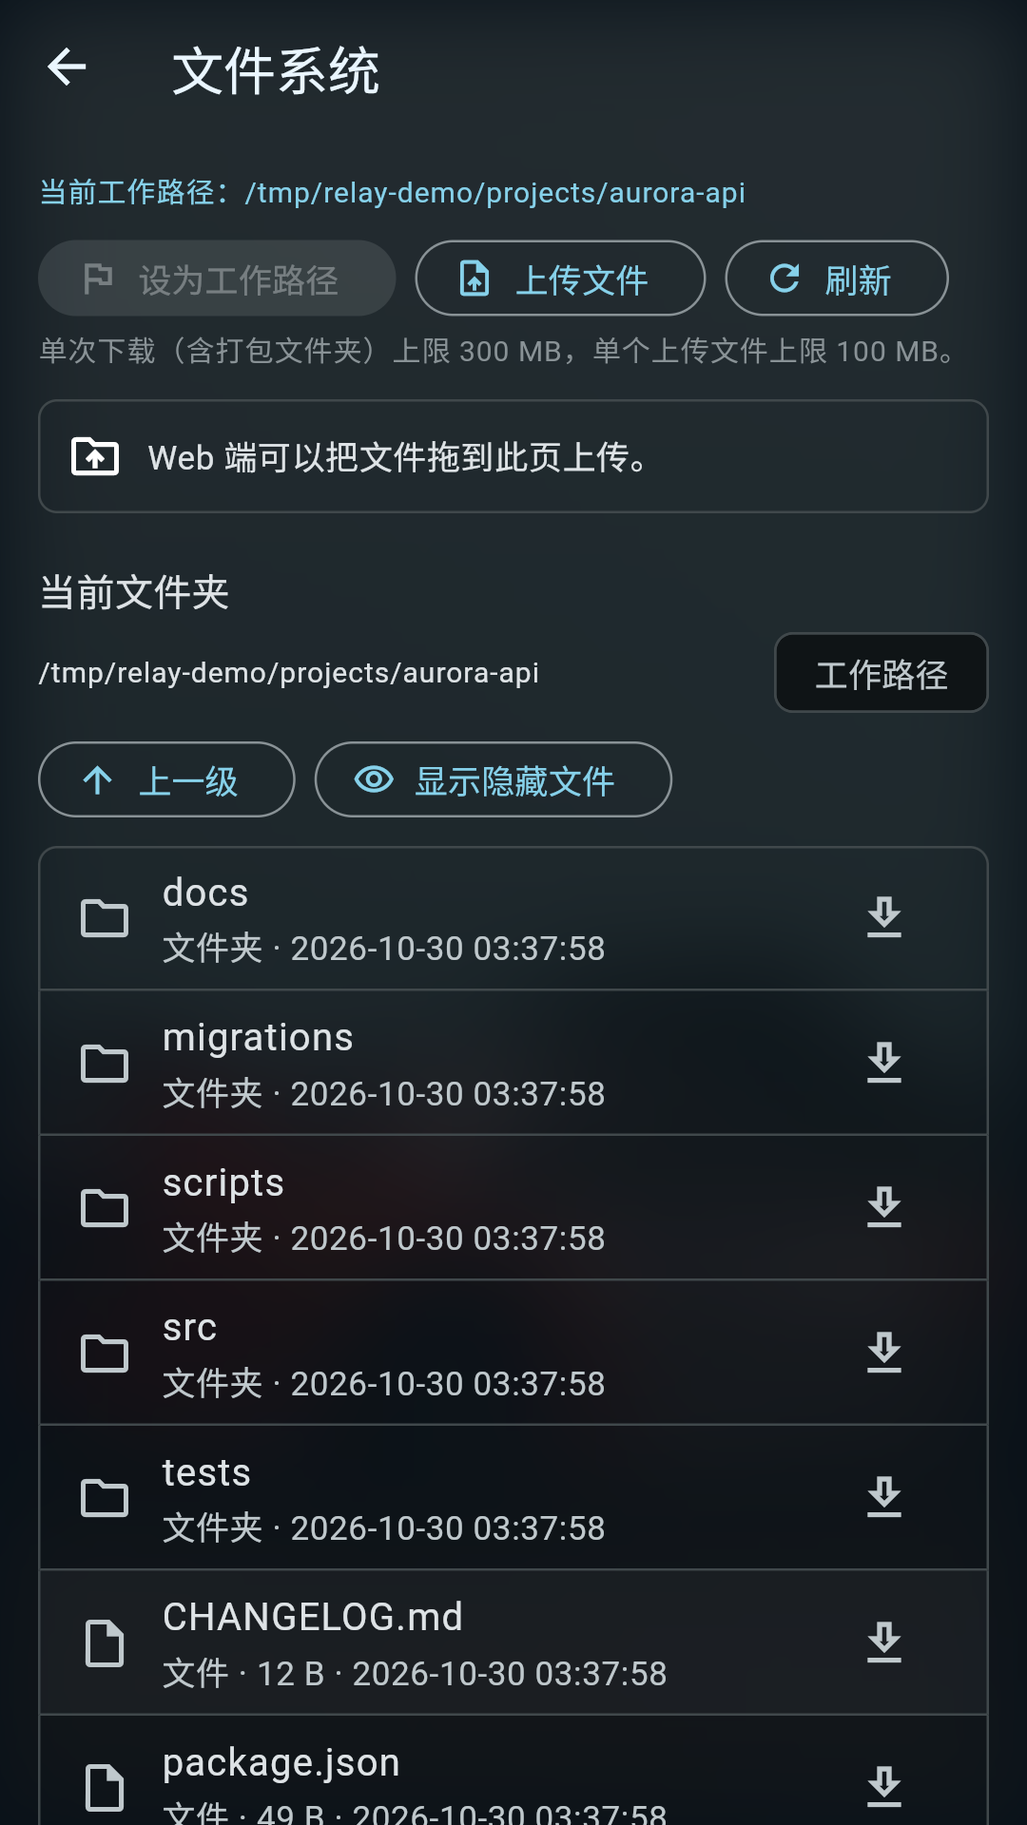
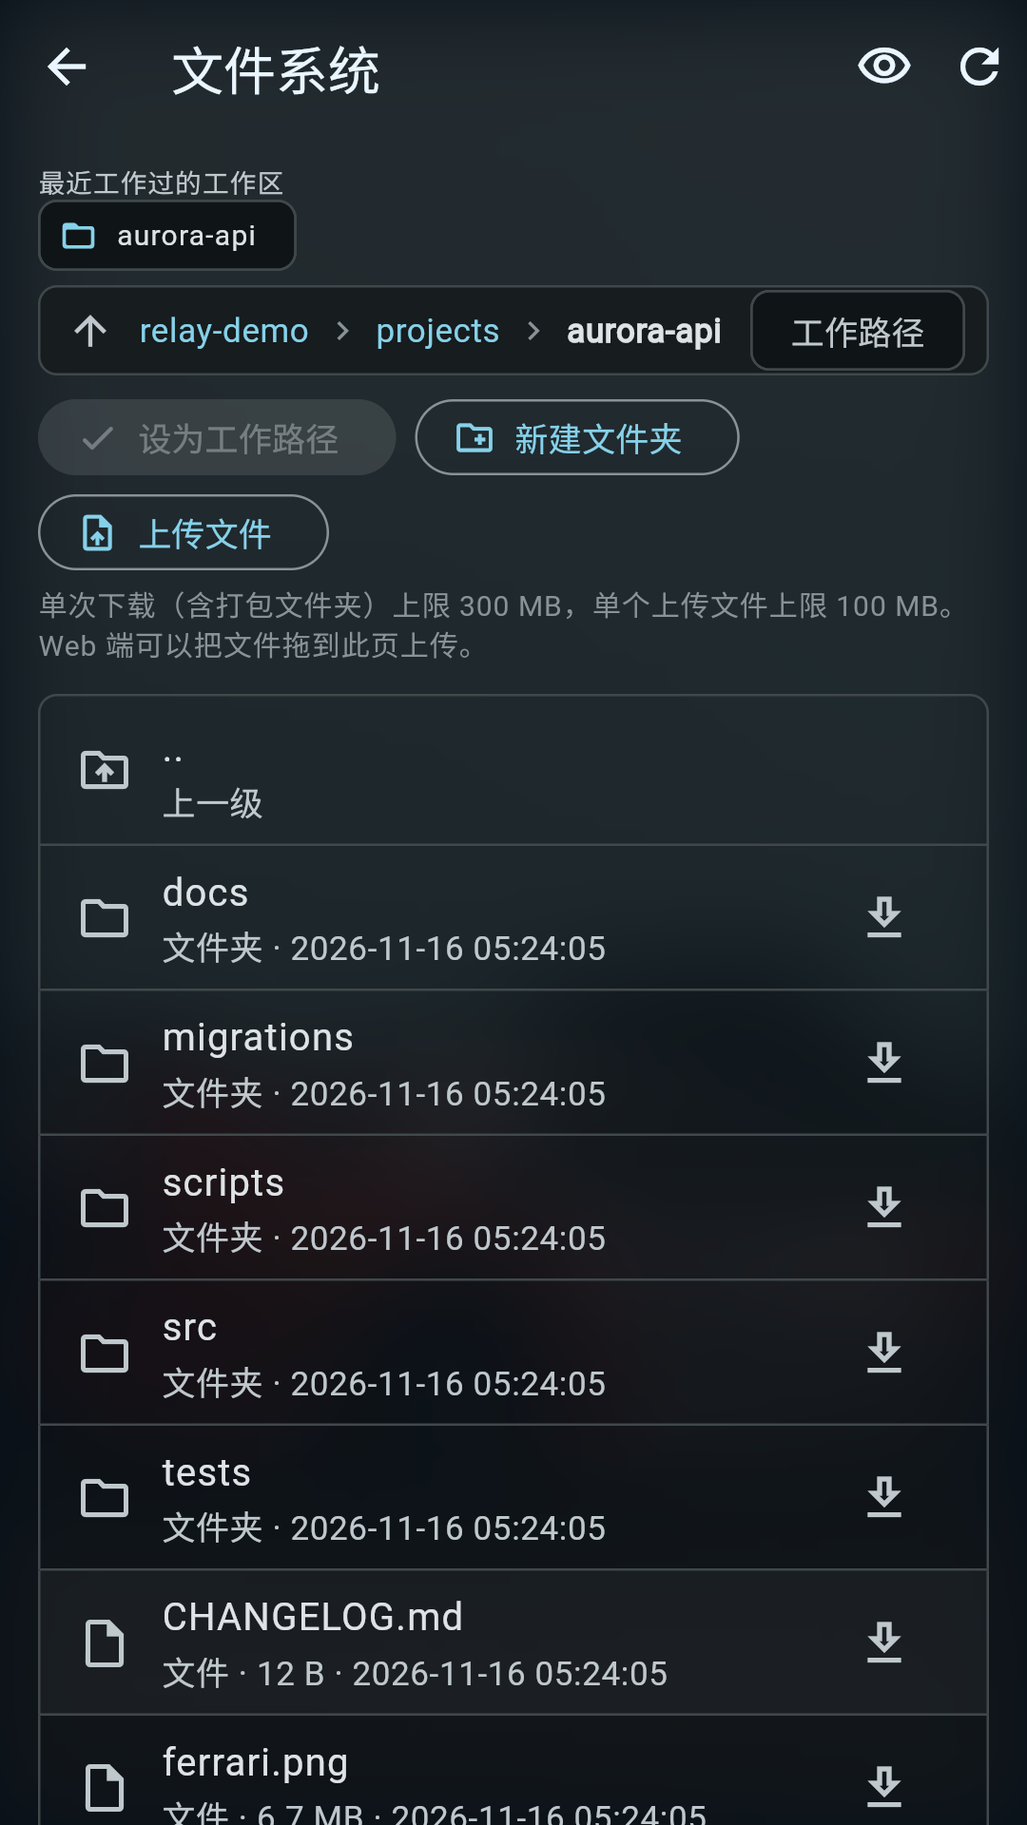
docs: refresh 0.1.12 screenshots with browser and image previews

diff --git a/scripts/dev/readme_screenshots.js b/scripts/dev/readme_screenshots.js
@@ -9,6 +9,8 @@
 const fs = require('node:fs');
 const os = require('node:os');
 const path = require('node:path');
+const http = require('node:http');
+const assert = require('node:assert/strict');
 const { execFileSync, spawn } = require('node:child_process');
 
 const REPO = path.resolve(__dirname, '../..');
@@ -21,6 +23,7 @@ const SERVER = path.join(ROOT, 'server');
 const WORKDIR = path.join(ROOT, 'projects', 'aurora-api');
 const PORT = Number(process.env.DEMO_PORT || 8790);
 const BASE_URL = `http://127.0.0.1:${PORT}`;
+const PREVIEW_PORT = PORT + 1;
 const TOKEN = 'relay-demo-screenshot-token-0000000000000000';
 const DARK_OPACITY = Number(process.env.WALLPAPER_DARK_OPACITY || 0.6);
 const PLAYWRIGHT_VERSION = '1.63.0';
@@ -29,10 +32,11 @@ const SEP = '\u0000';
 const day = new Date().toISOString().slice(0, 10);
 const at = (hm) => `${day}T${hm}:00.000Z`;
 
-// Viewport, device pixel ratio and the taps that reach each screen. Taps are
-// CSS-pixel coordinates in the layout of this release; check them when the
-// drawer or home page changes.
+// Viewport, device pixel ratio and the actions that reach each screen.
 const DRAWER = [28, 27];
+const OPEN_FILES = [{ tap: DRAWER }, { button: ['File system', '文件系统'] }];
+const OPEN_BROWSER = [{ tap: DRAWER }, { button: ['Browser', '浏览器'] }];
+const OPEN_IMAGE = [...OPEN_FILES, { button: ['ferrari.png', 'ferrari.png'] }];
 const SHOTS = [
   { name: 'relay-overview-web', size: [1440, 960, 1], steps: [] },
   { name: 'relay-chat-web', size: [1440, 960, 1], steps: [{ tap: [104, 356] }] },
@@ -40,9 +44,11 @@ const SHOTS = [
   {
     name: 'relay-swarm-mobile',
     size: [400, 820, 2],
-    steps: [{ tap: DRAWER }, { scroll: [150, 500, 300] }, { tap: [136, 640] }],
+    steps: [{ tap: DRAWER }, { scroll: [150, 500, 300] }, { button: ['Release readiness', '发布检查'] }],
   },
-  { name: 'relay-files-mobile', size: [400, 820, 2], steps: [{ tap: DRAWER }, { tap: [95, 739] }] },
+  { name: 'relay-files-mobile', size: [400, 820, 2], steps: OPEN_FILES },
+  { name: 'relay-browser-mobile', size: [400, 820, 2], steps: OPEN_BROWSER, browser: true },
+  { name: 'relay-image-preview-mobile', size: [400, 820, 2], steps: OPEN_IMAGE, image: true },
 ];
 
 // Same layout as the first phone set, rendered at 2.5× for 1080×1920 PNGs.
@@ -52,12 +58,14 @@ const MOBILE_SHOTS = [
   { name: 'relay-chat-empty-mobile', empty: true, steps: [{ tap: DRAWER }, { tap: [104, 356] }] },
   {
     name: 'relay-swarm-mobile',
-    steps: [{ tap: DRAWER }, { scroll: [150, 500, 300] }, { tap: [136, 550] }],
+    steps: [{ tap: DRAWER }, { scroll: [150, 500, 300] }, { button: ['Release readiness', '发布检查'] }],
   },
-  { name: 'relay-files-mobile', steps: [{ tap: DRAWER }, { tap: [95, 688] }] },
+  { name: 'relay-files-mobile', steps: OPEN_FILES },
+  { name: 'relay-browser-mobile', steps: OPEN_BROWSER, browser: true },
+  { name: 'relay-image-preview-mobile', steps: OPEN_IMAGE, image: true },
   { name: 'relay-machine-mobile', steps: [{ tap: [180, 132] }] },
-  { name: 'relay-quota-mobile', steps: [{ tap: DRAWER }, { tap: [100, 213] }] },
-  { name: 'relay-settings-mobile', steps: [{ tap: DRAWER }, { tap: [95, 739] }] },
+  { name: 'relay-quota-mobile', steps: [{ tap: DRAWER }, { tap: [100, 213] }], quota: true },
+  { name: 'relay-settings-mobile', steps: [{ tap: DRAWER }, { button: ['Settings', '设置'] }] },
   { name: 'relay-credentials-mobile', steps: [{ tap: DRAWER }, { tap: [100, 165] }] },
 ].map((shot) => ({ ...shot, size: [432, 768, 2.5] }));
 
@@ -79,7 +87,7 @@ function writeJson(name, value) {
   fs.writeFileSync(path.join(SERVER, name), JSON.stringify(value, null, 2));
 }
 
-function seed(lang) {
+function seed(lang, image) {
   const text = (en, zh) => lang === 'zh' ? zh : en;
   fs.rmSync(ROOT, { recursive: true, force: true });
 
@@ -100,6 +108,7 @@ function seed(lang) {
     fs.mkdirSync(path.dirname(file), { recursive: true });
     fs.writeFileSync(file, body);
   }
+  fs.copyFileSync(image, path.join(WORKDIR, 'ferrari.png'));
 
   // Tracked server code only, so no local deployment state is copied.
   const tracked = execFileSync('git', ['ls-files', 'server'], { cwd: REPO }).toString().trim().split('\n');
@@ -231,7 +240,54 @@ function seed(lang) {
   });
 }
 
-async function startServer() {
+function startPreview(lang) {
+  const text = (en, zh) => lang === 'zh' ? zh : en;
+  const html = `<!doctype html>
+<html lang="${lang}"><meta charset="utf-8"><meta name="viewport" content="width=device-width, initial-scale=1">
+<title>Aurora · ${text('Billing', '账单')}</title>
+<style>
+*{box-sizing:border-box}body{margin:0;background:#f5f6f8;color:#172b3a;font:15px system-ui,sans-serif}
+header{padding:22px 24px;background:#172b3a;color:white;display:flex;align-items:center;justify-content:space-between}
+header strong{font-size:22px;letter-spacing:-.7px}header span{color:#b8c9d6;font-size:12px}
+main{max-width:960px;margin:auto;padding:26px 22px}small{color:#607482;font-size:11px;letter-spacing:1.4px}
+h1{font-size:29px;letter-spacing:-1px;margin:8px 0}p{color:#607482;line-height:1.6;margin:0 0 22px}
+.stats{display:grid;grid-template-columns:1fr 1fr;gap:12px}.card,section{background:white;border:1px solid #e0e6eb;border-radius:12px;padding:18px}
+.card span{font-size:12px;color:#607482}.card strong{display:block;font-size:27px;margin:9px 0 4px}.card em{font-size:11px;font-style:normal;color:#13765e}
+section{margin-top:18px}h2{font-size:16px;margin:0 0 20px}.chart{height:85px;display:flex;align-items:end;gap:12px}
+.chart i{flex:1;background:#467d96;border-radius:4px 4px 0 0}.chart i:last-child{background:#172b3a}
+.axis{display:flex;justify-content:space-between;font-size:10px;color:#607482;margin-top:8px}
+.invoice{display:flex;justify-content:space-between;align-items:center;padding:15px 0;border-top:1px solid #edf0f3}
+.invoice b{font-size:13px}.invoice span{display:block;font-size:11px;color:#607482;margin-top:4px}
+.paid{background:#e5f4ec;color:#13765e;padding:5px 9px;border-radius:5px;font-size:11px}
+footer{margin-top:20px;color:#607482;font-size:11px}
+</style>
+<header><strong>aurora<span style="color:#76b4cf"> / </span></strong><span>${text('Development preview', '开发预览')}</span></header>
+<main><small>AURORA API · 2.4.1</small><h1>${text('Billing overview', '账单概览')}</h1>
+<p>${text('A clear view of your invoices and revenue.', '发票与收入，一目了然。')}</p>
+<div class="stats"><div class="card"><span>${text('Revenue this month', '本月收入')}</span><strong>¥48,250</strong><em>↑ 18.6% ${text('vs last month', '较上月')}</em></div>
+<div class="card"><span>${text('Paid invoices', '已付发票')}</span><strong>128</strong><em>${text('All payments settled', '全部款项已结清')}</em></div></div>
+<section><h2>${text('Revenue · Last 7 days', '收入 · 最近 7 天')}</h2><div class="chart">
+${[36, 58, 44, 72, 62, 84, 98].map((height) => `<i style="height:${height}%"></i>`).join('')}</div>
+<div class="axis"><span>${text('MON', '周一')}</span><span>${text('SUN', '周日')}</span></div></section>
+<section><h2>${text('Recent invoices', '最近发票')}</h2>
+${[['1048', 'Northstar Studio', '¥2,400'], ['1047', 'Orbit Labs', '¥1,850'], ['1046', 'Acme Design', '¥3,200']].map(([id, name, amount]) =>
+    `<div class="invoice"><div><b>${name}</b><span>INV-${id} · ${amount}</span></div><label class="paid">${text('Paid', '已付款')}</label></div>`).join('')}
+</section><footer>localhost:${PREVIEW_PORT} · ${text('Served on your backend machine', '运行在你的后端机器上')}</footer></main></html>`;
+  const server = http.createServer((_req, res) => {
+    res.writeHead(200, { 'Content-Type': 'text/html; charset=utf-8' });
+    res.end(html);
+  });
+  return new Promise((resolve, reject) => {
+    server.once('error', reject);
+    server.listen(PREVIEW_PORT, '127.0.0.1', () => resolve(server));
+  });
+}
+
+async function startServer(browserPath) {
+  // Match Playwright's sandbox setting only for this isolated localhost demo.
+  const launcher = path.join(ROOT, 'chromium-demo');
+  const quotedBrowser = `'${browserPath.replace(/'/g, "'\\''")}'`;
+  fs.writeFileSync(launcher, `#!/bin/sh\nexec ${quotedBrowser} --no-sandbox "$@"\n`, { mode: 0o700 });
   // The shell may carry the real deployment's settings; the demo must not use them.
   const env = Object.fromEntries(Object.entries(process.env).filter(([key]) =>
     !/^(PORT|HOST|PUBLIC_BASE_URL|RELAY_.*|ENABLE_.*)$/.test(key)));
@@ -244,6 +300,7 @@ async function startServer() {
       HOST: '127.0.0.1',
       RELAY_DEFAULT_DIR: WORKDIR,
       RELAY_FS_ROOTS: path.join(ROOT, 'projects'),
+      RELAY_BROWSER: launcher,
       ENABLE_QUOTA_WATCH: 'false',
       ENABLE_CLAUDE_KEEPALIVE: 'false',
     },
@@ -268,6 +325,25 @@ async function shoot(browser, wallpaper, lang, shot) {
     deviceScaleFactor: dpr,
     timezoneId: 'UTC',
     locale: lang === 'zh' ? 'zh-CN' : 'en-US',
+  });
+  let previewDownloaded = false;
+  let browserFrames = 0;
+  let browserUrl = '';
+  page.on('response', (response) => {
+    if (response.url().includes('/api/fs/download?') && response.url().includes('ferrari.png') && response.ok()) {
+      previewDownloaded = true;
+    }
+  });
+  page.on('websocket', (socket) => {
+    if (!socket.url().includes('/api/browser/connect?')) return;
+    socket.on('framereceived', ({ payload }) => {
+      if (Buffer.isBuffer(payload)) {
+        browserFrames += 1;
+      } else {
+        const message = JSON.parse(payload);
+        if (message.type === 'url') browserUrl = message.url;
+      }
+    });
   });
   if (shot.empty) {
     // Empty only this browser's history; the demo's translated chat stays intact.
@@ -329,14 +405,38 @@ async function shoot(browser, wallpaper, lang, shot) {
   }, { lang, wallpaper, darkOpacity: DARK_OPACITY, baseUrl: BASE_URL, token: TOKEN });
   await page.reload();
   await page.waitForTimeout(6000);
+  // Flutter paints to canvas; enable its semantics tree to target drawer labels.
+  await page.locator('flt-semantics-placeholder').evaluate((element) => element.click());
+  await page.waitForTimeout(500);
   for (const step of shot.steps) {
     if (step.tap) {
       await page.mouse.click(...step.tap);
+    } else if (step.button) {
+      const label = step.button[lang === 'zh' ? 1 : 0];
+      const escaped = label.replace(/[.*+?^${}()|[\]\\]/g, '\\$&');
+      await page.getByRole('button', { name: new RegExp(escaped) }).click();
     } else {
       await page.mouse.move(step.scroll[0], step.scroll[1]);
       await page.mouse.wheel(0, step.scroll[2]);
     }
-    await page.waitForTimeout(step.tap ? 3000 : 1000);
+    await page.waitForTimeout(step.scroll ? 1000 : 3000);
+  }
+  if (shot.browser) {
+    await page.getByRole('textbox').fill(`http://127.0.0.1:${PREVIEW_PORT}`);
+    const framesBeforeNavigation = browserFrames;
+    await page.getByRole('textbox').press('Enter');
+    await page.waitForTimeout(4000);
+    assert(browserUrl.startsWith(`http://127.0.0.1:${PREVIEW_PORT}`), 'Browser must navigate to the localhost demo');
+    assert(browserFrames > framesBeforeNavigation, 'Browser screenshot must contain a streamed frame');
+  }
+  if (shot.image) {
+    assert(previewDownloaded, 'Image preview must download the demo Ferrari image');
+    await page.getByRole('img').waitFor({ state: 'visible' });
+    assert(!(await page.locator('body').innerText()).match(/Cannot preview|无法预览/), 'Image preview must render successfully');
+  }
+  if (shot.quota) {
+    await page.locator('[role="progressbar"]:not([aria-valuenow])').waitFor({ state: 'hidden', timeout: 60000 });
+    assert(!(await page.locator('body').innerText()).match(/Loading quota|正在查询额度/), 'Quota queries must finish before capture');
   }
   const file = path.join(OUT, `${shot.name}${lang === 'zh' ? '-zh' : ''}.png`);
   await page.screenshot({ path: file });
@@ -360,14 +460,19 @@ async function main() {
   try {
     const wallpaper = fs.readFileSync(image).toString('base64');
     for (const lang of MOBILE_ZH ? ['zh'] : ['en', 'zh']) {
-      seed(lang);
-      const server = await startServer();
+      seed(lang, image);
+      const preview = await startPreview(lang);
+      let server;
       try {
+        server = await startServer(chromium.executablePath());
         const shots = MOBILE_ZH ? MOBILE_SHOTS : SHOTS;
         for (const shot of shots) await shoot(browser, wallpaper, lang, shot);
       } finally {
-        server.kill();
-        await new Promise((resolve) => server.once('exit', resolve));
+        if (server) {
+          server.kill();
+          await new Promise((resolve) => server.once('exit', resolve));
+        }
+        await new Promise((resolve) => preview.close(resolve));
       }
     }
   } finally {

diff --git a/docs/handbook.md b/docs/handbook.md
@@ -893,16 +893,17 @@ exported for the macOS desktop icon.
 
 ### Refreshing README screenshots
 
-`docs/screenshots/` holds the five README screenshots in English and, with a
+`docs/screenshots/` holds the seven README screenshots in English and, with a
 `-zh` suffix, in Chinese: `relay-overview-web` and `relay-chat-web` at
-1440×960, and `relay-chat-mobile`, `relay-swarm-mobile` and
-`relay-files-mobile` at 800×1640 (a 400×820 viewport at 2×). Both READMEs
+1440×960, and `relay-chat-mobile`, `relay-swarm-mobile`,
+`relay-files-mobile`, `relay-browser-mobile` and `relay-image-preview-mobile`
+at 800×1640 (a 400×820 viewport at 2×). Both READMEs
 reference them by name, so a recapture only replaces the files. To recapture
-all ten:
+all fourteen with the existing Ferrari wallpaper:
 
 ```bash
 (cd app/shell && flutter build web --no-pub --pwa-strategy=none --no-web-resources-cdn)
-node scripts/dev/readme_screenshots.js /path/to/wallpaper.png
+node scripts/dev/readme_screenshots.js docs/farrari.png
 ```
 
 The script:
@@ -912,33 +913,43 @@ The script:
    local deployment state), and seeded state. The seeded state is a Relay Demo
    token, the Main, Release notes and Flaky tests Claude Code sessions with the
    invoice-race conversation, and the Release readiness Swarm (Lead, Reviewer
-   and Docs).
+   and Docs). The wallpaper image is also copied into the workspace as
+   `ferrari.png` for the image preview capture.
 2. Starts that backend on `127.0.0.1:8790` (`DEMO_PORT` changes it) with the
    quota watch and keepalive off and none of the shell's `PORT`, `HOST`,
    `RELAY_*` or `ENABLE_*` settings, so the running deployment is not touched.
-   It serves the Web build from `app/shell/build/web`.
+   It serves the Web build from `app/shell/build/web`. A second local server
+   on `127.0.0.1:8791` (`DEMO_PORT + 1`) serves the translated Aurora billing
+   dashboard that Relay's Browser opens for its capture.
 3. Opens headless Chromium with Playwright and, in local storage, sets the
    dark theme, the language and the Relay Demo credential. It also stores the
    wallpaper, prepared the way the Web client prepares an import, at dark
    opacity 0.6 (`WALLPAPER_DARK_OPACITY` changes it).
-4. Taps through each screen at fixed coordinates, writes the screenshots and
-   stops the backend.
+4. Navigates using coordinates and accessible button labels, including the
+   localhost dashboard and the workspace image preview, writes the screenshots
+   and stops both demo servers. Browser captures verify navigation and streamed
+   frames; image captures wait for the image preview to render, and quota
+   captures wait for all usage queries to finish.
 
 Playwright is not a repository dependency. The script installs a pinned
 `playwright-core` and its Chromium into the temporary directory and the
 Playwright browser cache on first use; set `PLAYWRIGHT_CORE` to use an existing
-`playwright-core` module instead.
+`playwright-core` module instead. The isolated backend receives that same
+Chromium executable through a demo-only `RELAY_BROWSER` launcher, using
+Playwright's `--no-sandbox` setting for the localhost demo; a separate host
+Chrome install is not required. This does not change the deployed backend.
 
 Chat times are today's date at fixed hours, shown in UTC. The quota bars show
 the backend machine's real Claude Code usage, and the agent dots show
 which CLIs are installed there. Chinese shots use translated conversation
 text, session names and Swarm nicknames as well as the Chinese app language.
-When the drawer or Home layout changes, adjust the tap coordinates for the
-selected capture mode in the script, then review every image before committing
-it.
+When the drawer or Home layout changes, check the tap coordinates and accessible
+button labels for the selected capture mode in the script, then review every
+image before committing it.
 
-For a separate set of Chinese 9:16 phone images (home, chat, empty chat, Swarm,
-files, machine details, quota usage, settings and credentials),
+For a separate set of eleven Chinese 9:16 phone images (home, chat, empty chat,
+Swarm, files, browser, image preview, machine details, quota usage, settings
+and credentials),
 use the same script with `--mobile-zh`:
 
 ```bash

diff --git a/ENGINEERING.md b/ENGINEERING.md
@@ -42,7 +42,7 @@ script is under `scripts/` except the Node tools in `server/scripts/`.
 | scripts/install/{linux,macos,windows} | what users run to install and manage a backend; the linux and macos scripts forward to unix |
 | scripts/install/unix | the one Linux/macOS implementation: install.sh, the setup menu, service scripts and the per-platform adapters in lib/ |
 | scripts/release | release bundle builders, version/documentation checks, Windows setup checks and a local Android signing fallback for a release draft |
-| scripts/dev | local development helpers (build flow, backend restart, icon export, README screenshots) |
+| scripts/dev | local development helpers (build flow, backend restart, icon export, isolated demo screenshots for the English/Chinese READMEs and Chinese 9:16 phones, including localhost browser and workspace image preview) |
 | docs | handbook, install guides, security model, changelog, README screenshots |
 | .github/workflows | CI on pull requests, an on-demand unsigned iOS IPA, and a manually prepared release draft that also builds the signed Android APK from Actions Secrets |
 
@@ -443,7 +443,8 @@ navigation on 2026-11-09.
 - `node scripts/release/check_versions.js`, `node scripts/release/check_docs.js` and `node --test scripts/release/*.test.js` -> exit 0
 - `(cd app/core && flutter analyze --no-pub)` and `(cd app/shell && flutter analyze --no-pub)` -> "No issues found!"
 - `(cd app/core && flutter test --no-pub)` -> "All tests passed!"
-- `node scripts/dev/readme_screenshots.js <wallpaper image> --mobile-zh` (Web build present) -> nine Chinese demo screenshots (home, chat, empty chat, Swarm, files, machine details, quota usage, settings and credentials) in `docs/screenshots/mobile-zh-9x16/`, each 1080×1920 (9:16), with translated demo conversations and the README wallpaper settings.
+- `node scripts/dev/readme_screenshots.js docs/farrari.png` (Web build present) -> fourteen English/Chinese README screenshots (home and chat at 1440×960; mobile chat, Swarm, files, localhost browser and image preview at 800×1640) in `docs/screenshots/`, using an isolated demo backend and localhost dashboard with the Ferrari wallpaper.
+- `node scripts/dev/readme_screenshots.js docs/farrari.png --mobile-zh` (Web build present) -> eleven Chinese demo screenshots (home, chat, empty chat, Swarm, files, browser, image preview, machine details, quota usage, settings and credentials) in `docs/screenshots/mobile-zh-9x16/`, each 1080×1920 (9:16), with translated demo conversations and the README wallpaper settings; quota capture waits for all usage queries to finish.
 - Settings → Wallpaper: Replace image and Remove wallpaper controls appear above the preview and adjustment controls.
 - Settings → Wallpaper: choosing or removing an image updates the preview before Save; import/processing displays a spinner.
 - Settings → Wallpaper: one opacity slider controls the current theme, and moving it updates the preview before Save.

diff --git a/README.md b/README.md
@@ -69,6 +69,19 @@ default 55%) for both themes.
   </tr>
 </table>
 
+### Preview localhost pages and workspace images
+
+<table>
+  <tr>
+    <td width="50%" align="center"><a href="docs/screenshots/relay-browser-mobile.png"><img src="docs/screenshots/relay-browser-mobile.png" alt="Relay browser showing a billing dashboard served on the backend's localhost" width="100%"></a></td>
+    <td width="50%" align="center"><a href="docs/screenshots/relay-image-preview-mobile.png"><img src="docs/screenshots/relay-image-preview-mobile.png" alt="Relay file preview displaying a Ferrari image from the workspace" width="100%"></a></td>
+  </tr>
+  <tr>
+    <td align="center"><strong>Localhost browser</strong><br>View and operate the development page running on your backend machine.</td>
+    <td align="center"><strong>Image preview</strong><br>Open a workspace image and zoom in to inspect it.</td>
+  </tr>
+</table>
+
 <sub>These screenshots use the dark theme with a wallpaper set in Settings → Wallpaper. They were captured in Chromium against an isolated demo backend and contain no production credentials or project data.</sub>
 
 ## How it fits together

diff --git a/README.zh-CN.md b/README.zh-CN.md
@@ -64,6 +64,19 @@ Relay 把源代码、shell 权限和 CLI 登录凭据留在你控制的电脑上
   </tr>
 </table>
 
+### 预览 localhost 页面和工作区图片
+
+<table>
+  <tr>
+    <td width="50%" align="center"><a href="docs/screenshots/relay-browser-mobile-zh.png"><img src="docs/screenshots/relay-browser-mobile-zh.png" alt="Relay 浏览器显示后端 localhost 上运行的账单面板" width="100%"></a></td>
+    <td width="50%" align="center"><a href="docs/screenshots/relay-image-preview-mobile-zh.png"><img src="docs/screenshots/relay-image-preview-mobile-zh.png" alt="Relay 文件预览显示工作区中的 Ferrari 图片" width="100%"></a></td>
+  </tr>
+  <tr>
+    <td align="center"><strong>localhost 浏览器</strong><br>查看并操作后端机器上运行的开发页面。</td>
+    <td align="center"><strong>图片预览</strong><br>打开工作区图片，缩放查看细节。</td>
+  </tr>
+</table>
+
 <sub>这些截图使用暗色主题，并在“设置 → 壁纸”中设置了壁纸；由 Chromium 连接隔离的演示后端截取，不包含生产凭据或真实项目数据。</sub>
 
 ## 它是怎样连接起来的
